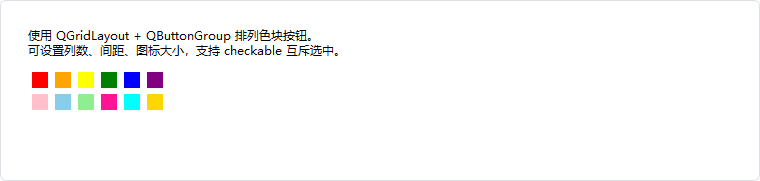
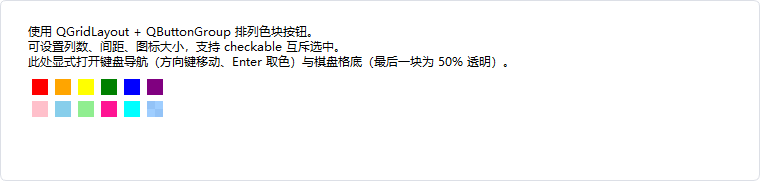
docs(color): 补 alpha、最近色与恢复默认说明（中文/English）

Changed region(s): [[0.0303, 0.1381, 0.6658, 0.442], [0.0303, 0.4696, 0.2118, 0.663]]

diff --git a/docs/en/use-guide/color-menu.md b/docs/en/use-guide/color-menu.md
@@ -13,6 +13,9 @@ The open menu shows the theme palette on top, followed by `None`, `Custom Color`
 - ✅ **Complete menu structure**: Title → theme palette → "None" action → "Custom Color" action → custom color grid
 - ✅ **None color**: `enableNoneColorAction` controls the None option
 - ✅ **Custom color management**: Up to 10 custom colors, FIFO eviction
+- ✅ **Opacity** (optional): In-menu alpha slider with checkerboard preview, off by default
+- ✅ **Recent colors** (optional): Latest 5, deduplicated, newest first, arrow-key reachable, off by default
+- ✅ **Restore default** (optional): `setDefaultColor()` inserts an action, absent by default
 - ✅ **Exposed sub-controls**: `colorPaletteGridWidget()`, `customColorsWidget()` can be accessed directly
 
 ### Usage
@@ -38,6 +41,42 @@ QObject::connect(menu, &DA::DAColorMenu::selectedColor,
 // Show the menu
 menu->exec(QCursor::pos());
 ```
+
+### Opacity (alpha)
+
+```cpp
+menu->setAlphaEnabled(true);   // default false: no slider, selected colors stay bit-identical
+menu->setAlpha(200);           // 0–255, kept in sync with the slider and alpha()
+QObject::connect(menu, &DA::DAColorMenu::alphaChanged,
+    [](int a) { qDebug() << "alpha" << a; });
+```
+
+- When enabled, an "Opacity" row appears at the end of the menu: slider (0–255), percentage and a checkerboard preview. Picking any color writes the current alpha into it.
+- `alphaChanged` fires only when the value changes (during drag or via `setAlpha()`); it is not the "done" signal — `selectedColor` remains the only confirmation.
+- The slider is an independent entry point and does not rely on `QColorDialog`'s alpha channel (native dialogs on some platforms hide it); an alpha returned by the dialog is written back to the slider.
+- With the switch off, `selectedColor` carries exactly the same color as before (no forced 255, no alpha rewrite).
+
+### Recent Colors & Keyboard Navigation
+
+```cpp
+menu->setRecentColors({ QColor(64,158,255), QColor(103,194,58),
+                        QColor(245,108,108), QColor(230,162,60) });
+// Subsequent picks: newest first, deduplicated, at most 5
+```
+
+- Calling `setRecentColors()` switches the old "10-entry FIFO custom colors" to "latest 5, newest first, deduplicated"; without the call the old behavior is unchanged.
+- Swatches are keyboard-reachable: arrow keys move inside the current grid (±1 / ±columns, stopping at edges), `Enter` picks, `Space` is handled by `QToolButton`. Up/down does not cross between the main-color row and the shade rows.
+- Swatch icons support a checkerboard background (`DAColorGridWidget::setAlphaBackgroundEnabled(true)`) so translucent colors look transparent; the recent-color grid enables it automatically.
+
+### Restoring the Default Color
+
+```cpp
+menu->setDefaultColor(QColor("#409EFF"));  // brand color
+menu->setDefaultColor(QColor());           // invalid color = remove the entry
+```
+
+- Once set, a `Restore Default` action is inserted; clicking it emits that color with **alpha 255** and does not add anything to the recent-color list.
+- Without the call, the menu's action count and order are identical to before.
 
 ## DAColorPickerButton
 
@@ -102,6 +141,11 @@ menu->colorPaletteGridWidget()->setColorList({
 | Method | Description |
 |--------|-------------|
 | `enableNoneColorAction(bool)` | Enable/disable the None option |
+| `setAlphaEnabled(bool)` / `isAlphaEnabled()` | Opacity row switch (default off) |
+| `alpha()` / `setAlpha(int)` | Current alpha (0–255) |
+| `alphaChanged(int)` | Alpha-changed signal (fires during dragging) |
+| `setRecentColors(QList<QColor>)` / `recentColors()` | Enable recent-color strategy (newest first, deduplicated, max 5) |
+| `setDefaultColor(QColor)` / `defaultColor()` | Set/remove the restore-default entry |
 | `colorPaletteGridWidget()` | Get the theme palette widget |
 | `customColorsWidget()` | Get the custom color grid widget |
 

diff --git a/docs/use-guide/color-menu.md b/docs/use-guide/color-menu.md
@@ -13,6 +13,9 @@
 - ✅ **完整菜单结构**：标题 → 主题色板 → "None" Action → "Custom Color" Action → 自定义色网格
 - ✅ **None 颜色**：`enableNoneColorAction` 控制 None 选项
 - ✅ **自定义色管理**：最多 10 个自定义色，FIFO 淘汰
+- ✅ **透明度**（可选）：菜单内 alpha 滑杆 + 棋盘格预览，默认关闭
+- ✅ **最近色**（可选）：最近 5 色、去重、置顶，支持方向键，默认关闭
+- ✅ **恢复默认色**（可选）：`setDefaultColor()` 插入一条 Action，默认不出现
 - ✅ **暴露子控件**：`colorPaletteGridWidget()`、`customColorsWidget()` 可直接访问
 
 ### 用法
@@ -38,6 +41,42 @@ QObject::connect(menu, &DA::DAColorMenu::selectedColor,
 // 弹出菜单
 menu->exec(QCursor::pos());
 ```
+
+### 透明度（alpha）
+
+```cpp
+menu->setAlphaEnabled(true);   // 默认 false：不插滑杆，选中颜色逐位不变
+menu->setAlpha(200);           // 0–255，滑杆与 alpha() 同步
+QObject::connect(menu, &DA::DAColorMenu::alphaChanged,
+    [](int a) { qDebug() << "alpha" << a; });
+```
+
+- 打开后菜单末尾出现「Opacity」行：滑杆（0–255）+ 百分比 + 棋盘格预览；选中任意颜色时把当前 alpha 写进该颜色。
+- `alphaChanged` 只在拖动/`setAlpha()` 值变化时发射，**不是**"选完了"；`selectedColor` 仍是唯一确认信号。
+- 不透明度滑杆是独立入口，不依赖 `QColorDialog` 的 alpha 通道（部分平台原生对话框不显示 alpha）；对话框返回的 alpha 会回写滑杆。
+- 关闭开关后 `selectedColor` 的颜色与改动前完全一致（不会补 255 或改写 alpha）。
+
+### 最近颜色与键盘导航
+
+```cpp
+menu->setRecentColors({ QColor(64,158,255), QColor(103,194,58),
+                        QColor(245,108,108), QColor(230,162,60) });
+// 之后每次选色：最近优先、去重、最多 5 条
+```
+
+- 调用 `setRecentColors()` 即把原来的「10 条 FIFO 自定义色」切换为「最近 5 条、置顶、去重」；不调用时保持旧行为。
+- 色块支持键盘操作：方向键在当前网格内移动（±1 / ±列数，越界停住），`Enter` 取色，`Space` 由 `QToolButton` 自带；上下移动只在同一段网格内生效（主色行与色阶行之间不跨段）。
+- 色块图标支持棋盘格底（`DAColorGridWidget::setAlphaBackgroundEnabled(true)`），半透明色能看出"透"；最近色网格会自动打开它。
+
+### 恢复默认色
+
+```cpp
+menu->setDefaultColor(QColor("#409EFF"));  // 品牌色
+menu->setDefaultColor(QColor());           // 无效色 = 移除入口
+```
+
+- 设置后菜单插入 `Restore Default`，点击直接发出该颜色，**alpha 恒为 255**，且不会写入最近色列表。
+- 未调用时菜单项数量与顺序与改动前一致。
 
 ## DAColorPickerButton
 
@@ -99,6 +138,11 @@ menu->colorPaletteGridWidget()->setColorList({
 | 方法 | 说明 |
 |------|------|
 | `enableNoneColorAction(bool)` | 启用/禁用 None 选项 |
+| `setAlphaEnabled(bool)` / `isAlphaEnabled()` | 透明度行开关（默认关闭） |
+| `alpha()` / `setAlpha(int)` | 当前 alpha（0–255） |
+| `alphaChanged(int)` | alpha 变化信号（随拖动高频） |
+| `setRecentColors(QList<QColor>)` / `recentColors()` | 启用最近色策略（最近优先、去重、最多 5） |
+| `setDefaultColor(QColor)` / `defaultColor()` | 设置/移除恢复默认色入口 |
 | `colorPaletteGridWidget()` | 获取主题色板控件 |
 | `customColorsWidget()` | 获取自定义色网格控件 |
 
